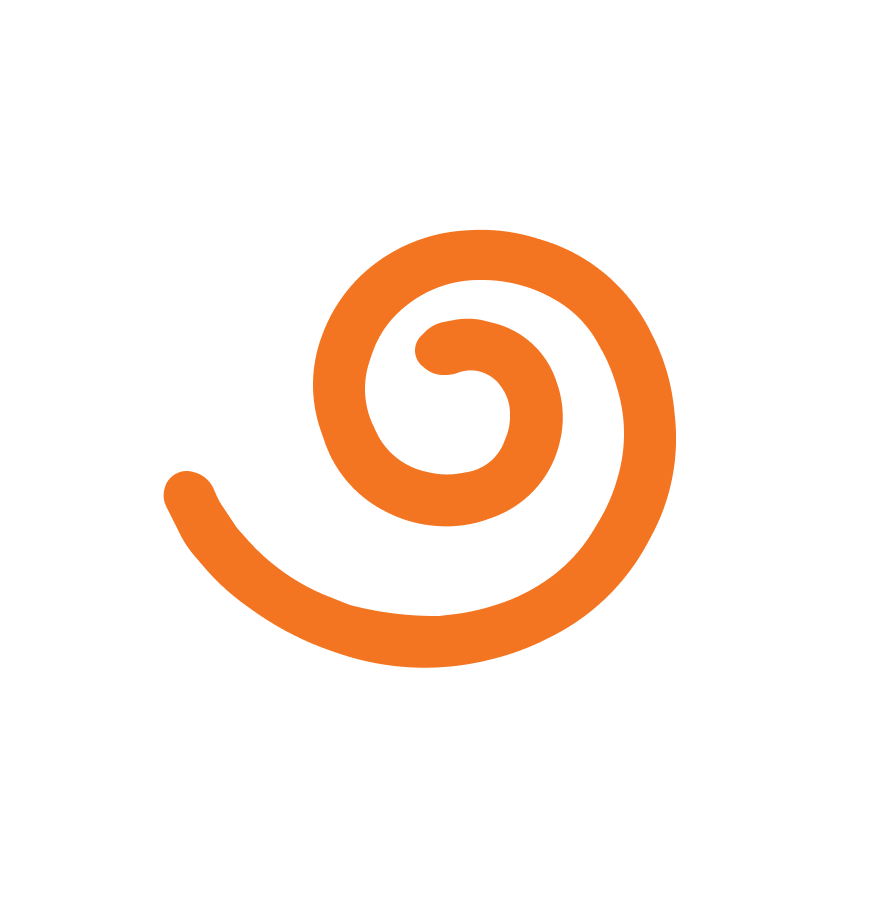
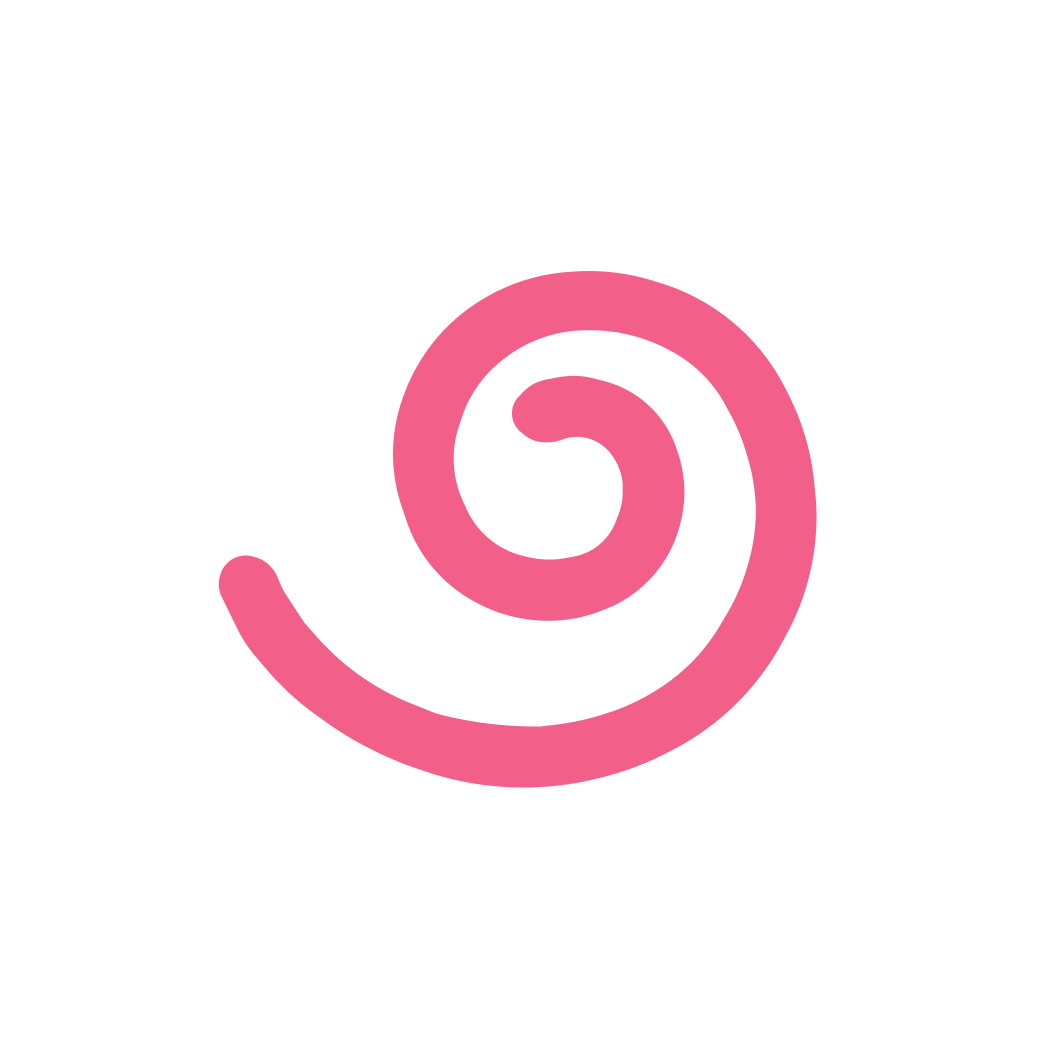
change the orange color to a hot pink

Changed region(s): [[0.1822, 0.2497, 0.7897, 0.7492]]

diff --git a/style.css b/style.css
@@ -12,7 +12,7 @@ body{
 
 .footer {
     width: 100%; /* Ensures the footer takes up the full width of the screen */
-    background-color: #F47521; /* Background color of the footer */
+    background-color: #F2608A; /* Background color of the footer */
     color: white; /* Text color */
     text-align: center; /* Centers the text horizontally */
     padding: 0px 0; /* Padding for top and bottom */
@@ -1203,7 +1203,7 @@ a {
         text-align: center;
         justify-content: center;
         margin: 0;
-        background-color: #F47521;
+        background-color: #F2608A;
         font-family: 'Lalezar', sans-serif;
         padding-top: 228px;
         display: flex;
@@ -1215,7 +1215,7 @@ a {
     }
 
     .highlight-o {
-        color: #F47521; /* Replace with the specific orange color you like */
+        color: #F2608A; /* Replace with the specific orange color you like */
     }
     
     .anime {
@@ -1781,7 +1781,7 @@ a {
         text-align: center;
         justify-content: center;
         margin: 0;
-        background-color: #F47521;
+        background-color: #F2608A;
         font-family: 'Lalezar', sans-serif;
         padding-top: 228px;
         display: flex;
@@ -1793,7 +1793,7 @@ a {
     }
 
     .highlight-o {
-        color: #F47521; /* Replace with the specific orange color you like */
+        color: #F2608A; /* Replace with the specific orange color you like */
     }
     
     .anime {
@@ -2879,7 +2879,7 @@ a {
         text-align: center;
         justify-content: center;
         margin: 0;
-        background-color: #F47521;
+        background-color: #F2608A;
         font-family: 'Lalezar', sans-serif;
         padding-top: 228px;
         display: flex;
@@ -2891,7 +2891,7 @@ a {
     }
 
     .highlight-o {
-        color: #F47521; /* Replace with the specific orange color you like */
+        color: #F2608A; /* Replace with the specific orange color you like */
     }
     
     .anime {
@@ -3915,7 +3915,7 @@ a {
         text-align: center;
         justify-content: center;
         margin: 0;
-        background-color: #F47521;
+        background-color: #F2608A;
         font-family: 'Lalezar', sans-serif;
         padding-top: 228px;
         display: flex;
@@ -3927,7 +3927,7 @@ a {
     }
 
     .highlight-o {
-        color: #F47521; /* Replace with the specific orange color you like */
+        color: #F2608A; /* Replace with the specific orange color you like */
     }
     
     .anime {
@@ -4909,7 +4909,7 @@ a {
         text-align: center;
         justify-content: center;
         margin: 0;
-        background-color: #F47521;
+        background-color: #F2608A;
         font-family: 'Lalezar', sans-serif;
         padding-top: 228px;
         display: flex;
@@ -4921,7 +4921,7 @@ a {
     }
 
     .highlight-o {
-        color: #F47521; /* Replace with the specific orange color you like */
+        color: #F2608A; /* Replace with the specific orange color you like */
     }
     
     .anime {
